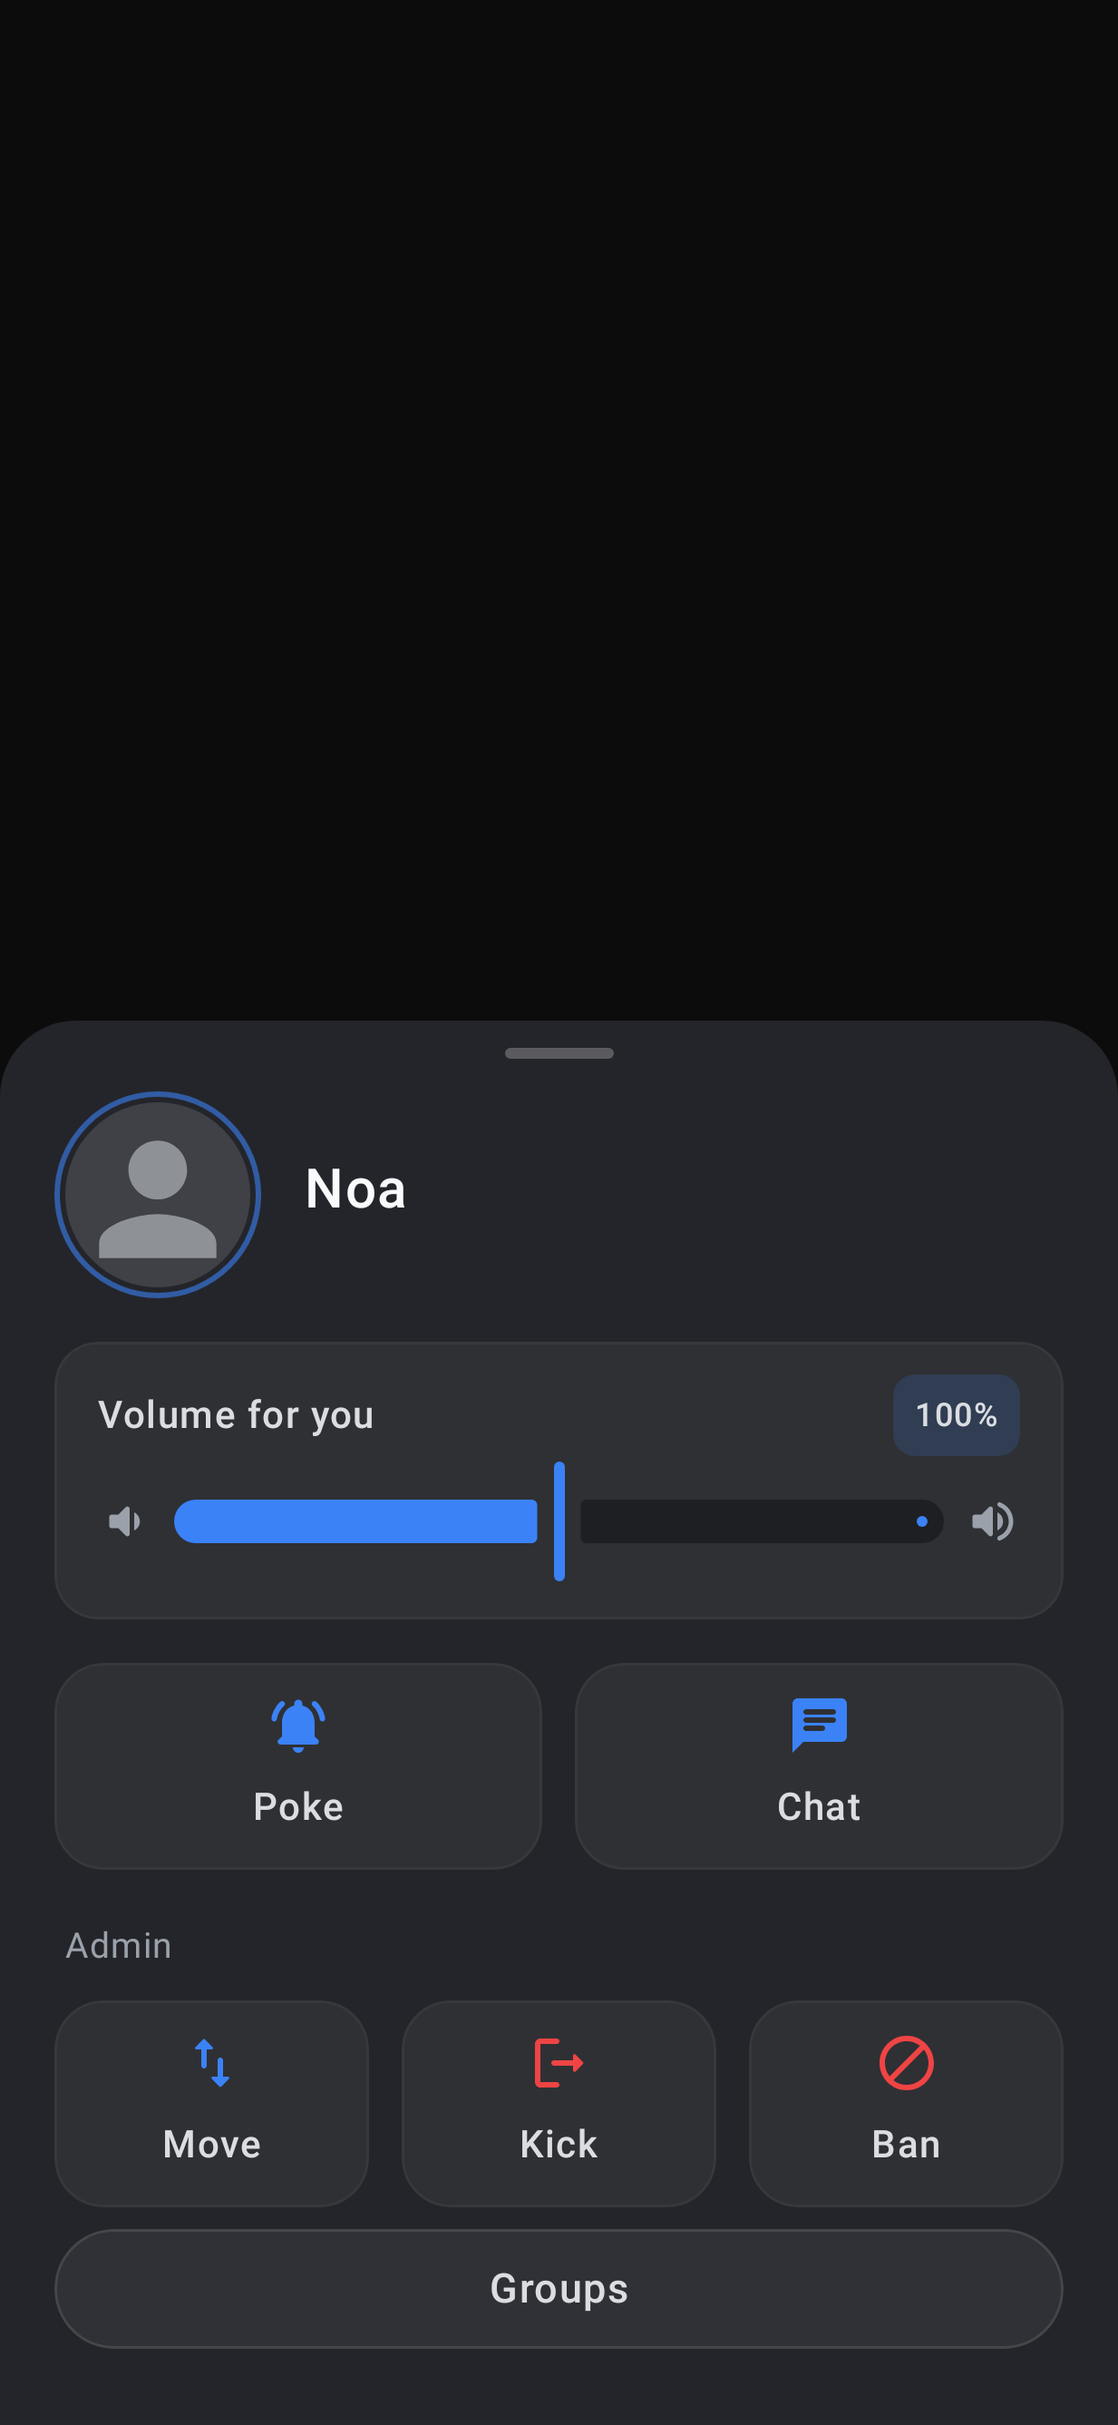
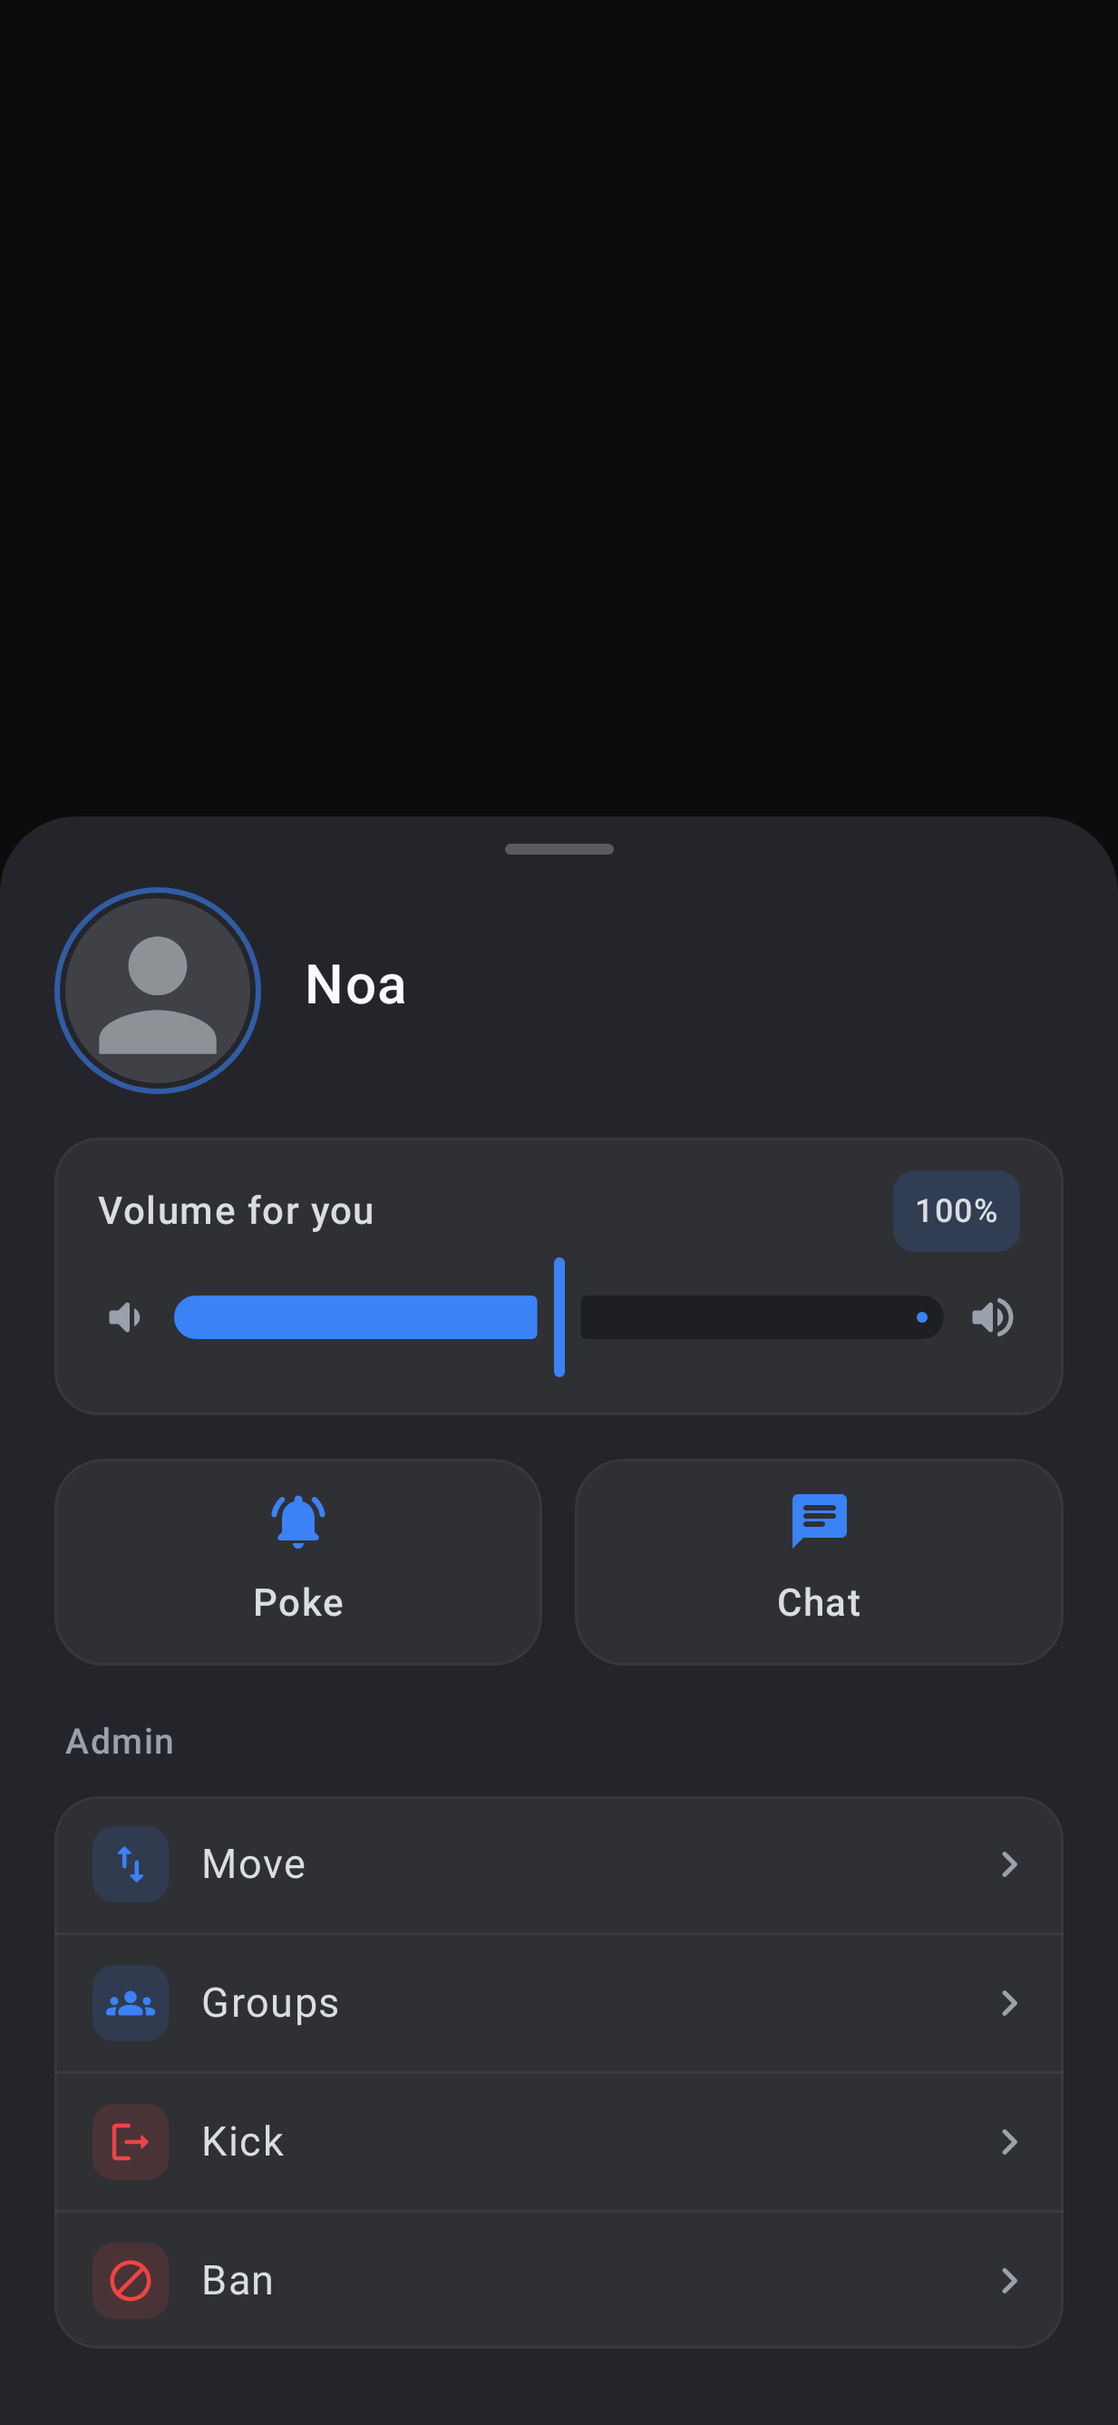
Menus: actions as lists, facts in one box
As in the channel menu and the Groups window, a menu's actions are a list
of rows (icon, name, an arrow when it opens something):
- the person menu's admin actions: Move, Groups, Kick and Ban (in red)
- one's own Groups, under Admin
- the identity window: Make default, Export, and Security level with its
  level, which opens Raise level
- the server info: its website and the privilege key

The server info's numbers (users, channels, uptime, created) sit side by
side in one box; "created" is the month ("Oct 2025"), which fits its cell.
Pictures of one's own menu and the server info (with and without a
website) are new.

diff --git a/app/src/main/kotlin/io/github/korppujauho/pocketts/ui/Dialogs.kt b/app/src/main/kotlin/io/github/korppujauho/pocketts/ui/Dialogs.kt
@@ -1,5 +1,8 @@
 package io.github.korppujauho.pocketts.ui
 
+import androidx.compose.material.icons.rounded.Groups
+import androidx.compose.material.icons.rounded.Public
+import androidx.compose.material.icons.automirrored.rounded.OpenInNew
 import androidx.compose.material.icons.filled.Hearing
 import androidx.compose.material.icons.rounded.Close
 import androidx.compose.material.icons.rounded.NotificationsActive
@@ -11,6 +14,8 @@ import androidx.compose.material.icons.automirrored.rounded.VolumeDown
 import androidx.compose.material.icons.automirrored.rounded.VolumeUp
 import androidx.compose.foundation.background
 import androidx.compose.foundation.border
+import androidx.compose.foundation.layout.fillMaxHeight
+import androidx.compose.foundation.layout.width
 import androidx.compose.material.icons.rounded.Person
 import androidx.compose.material.icons.rounded.Lock
 import androidx.compose.material.icons.rounded.Folder
@@ -135,7 +140,10 @@ fun PersonSheet(
                     }
                 }
                 // One's own groups, with the same powers as anyone's
-                if (admin && onGroups != null) PillButton(stringResource(R.string.admin_groups), modifier = Modifier.fillMaxWidth(), onClick = onGroups)
+                if (admin && onGroups != null) {
+                    Text(stringResource(R.string.admin_row), color = Ts.muted, fontSize = 13.sp, fontWeight = FontWeight.SemiBold, modifier = Modifier.padding(start = 4.dp))
+                    ActionCard { ActionRow(androidx.compose.material.icons.Icons.Rounded.Groups, stringResource(R.string.admin_groups), true, more = true, onClick = onGroups) }
+                }
                 return@Column
             }
             var v by remember { mutableFloatStateOf(volume) }
@@ -241,7 +249,6 @@ fun ServerInfoDialog(state: Session.UiState, onDismiss: () -> Unit, onPrivilegeK
         onDismiss = onDismiss, title = state.serverName.ifEmpty { stringResource(R.string.info_title) }, icon = androidx.compose.material.icons.Icons.Rounded.Dns,
         subtitle = state.address,
         buttons = {
-            PillButton(stringResource(R.string.key_button), onClick = onPrivilegeKey)
             PillButton(stringResource(R.string.close), PillKind.PRIMARY, onClick = onDismiss)
         },
     ) {
@@ -274,26 +281,42 @@ fun ServerInfoDialog(state: Session.UiState, onDismiss: () -> Unit, onPrivilegeK
                         add(res.getString(R.string.info_uptime) to span(res, it * 1000 + since))
                     }
                     v["virtualserver_created"]?.toLongOrNull()?.takeIf { it > 0 }?.let {
-                        add(res.getString(R.string.info_created) to res.getString(R.string.info_ago, span(res, System.currentTimeMillis() - it * 1000)))
+                        // The month it was made ("Oct 2025"), in the phone's language: short enough for its cell
+                        val locale = res.configuration.locales[0]
+                        val pattern = android.text.format.DateFormat.getBestDateTimePattern(locale, "MMMyyyy")
+                        add(res.getString(R.string.info_created) to java.text.SimpleDateFormat(pattern, locale).format(java.util.Date(it * 1000)))
                     }
                 }
-                for (row in stats.chunked(2)) {
-                    Row(horizontalArrangement = Arrangement.spacedBy(10.dp)) {
-                        for ((k, value) in row) {
-                            InfoBox(Modifier.weight(1f)) {
-                                Text(k, color = Ts.muted, fontSize = 12.sp)
-                                Text(value, color = Ts.text, fontSize = 15.sp)
-                            }
+                // The numbers side by side in one box, each over what it is
+                Row(
+                    Modifier.fillMaxWidth().height(androidx.compose.foundation.layout.IntrinsicSize.Min).clip(RoundedCornerShape(14.dp)).background(Pop.field)
+                        .border(1.dp, Color(0x0AFFFFFF), RoundedCornerShape(14.dp)),
+                ) {
+                    stats.forEachIndexed { i, (k, value) ->
+                        if (i > 0) Box(Modifier.width(1.dp).fillMaxHeight().background(Color(0x0DFFFFFF)))
+                        Column(
+                            Modifier.weight(1f).semantics(mergeDescendants = true) {}.padding(horizontal = 4.dp, vertical = 10.dp),
+                            horizontalAlignment = Alignment.CenterHorizontally, verticalArrangement = Arrangement.Center,
+                        ) {
+                            Text(value, color = Ts.text, fontSize = 15.sp, fontWeight = FontWeight.SemiBold, textAlign = androidx.compose.ui.text.style.TextAlign.Center, lineHeight = 18.sp)
+                            Text(k, color = Ts.muted, fontSize = 11.5.sp, textAlign = androidx.compose.ui.text.style.TextAlign.Center, maxLines = 1)
                         }
-                        if (row.size == 1) Spacer(Modifier.weight(1f))
                     }
                 }
+                // What can be done: the server's website, and a privilege key from its admin
                 val site = v["virtualserver_hostbutton_url"].orEmpty()
-                if (site.startsWith("http://") || site.startsWith("https://")) {
-                    InfoBox(Modifier.clickable { uri.openUri(site) }) {
-                        Text(v["virtualserver_hostbutton_tooltip"].orEmpty().ifEmpty { site }, color = Ts.text, fontWeight = FontWeight.SemiBold, fontSize = 14.sp)
-                        Text(site, color = Ts.muted, fontSize = 12.sp)
-                    }
+                val web = site.startsWith("http://") || site.startsWith("https://")
+                ActionCard {
+                    if (web) ActionRow(
+                        androidx.compose.material.icons.Icons.Rounded.Public, v["virtualserver_hostbutton_tooltip"].orEmpty().ifEmpty { site }, true,
+                        detail = site.takeIf { v["virtualserver_hostbutton_tooltip"].orEmpty().isNotEmpty() },
+                        trailing = {
+                            androidx.compose.material3.Icon(
+                                androidx.compose.material.icons.Icons.AutoMirrored.Rounded.OpenInNew, contentDescription = null, tint = Ts.muted, modifier = Modifier.size(18.dp),
+                            )
+                        },
+                    ) { uri.openUri(site) }
+                    ActionRow(androidx.compose.material.icons.Icons.Rounded.Key, stringResource(R.string.key_button), !web, more = true, onClick = onPrivilegeKey)
                 }
                 val version = listOf(
                     v["virtualserver_version"].orEmpty().replace(Regex("""\s*\[Build:[^\]]*]""", RegexOption.IGNORE_CASE), ""),
@@ -403,7 +426,7 @@ fun ChannelInfoDialog(
 
 /** A small fact about a channel: [text], an [icon], or both ([label]: what a screen reader says for an icon alone). */
 @Composable
-private fun InfoChip(text: String?, icon: androidx.compose.ui.graphics.vector.ImageVector? = null, label: String? = null) {
+internal fun InfoChip(text: String?, icon: androidx.compose.ui.graphics.vector.ImageVector? = null, label: String? = null) {
     Row(
         Modifier.clip(RoundedCornerShape(50)).background(Pop.field).border(1.dp, Color(0x0AFFFFFF), RoundedCornerShape(50))
             .then(if (label != null) Modifier.semantics(mergeDescendants = true) { contentDescription = listOfNotNull(label, text).joinToString(": ") } else Modifier)
@@ -417,16 +440,19 @@ private fun InfoChip(text: String?, icon: androidx.compose.ui.graphics.vector.Im
 
 /** A box of action rows, as the Groups window's boxes. */
 @Composable
-private fun ActionCard(content: @Composable ColumnScope.() -> Unit) = Column(
+internal fun ActionCard(content: @Composable ColumnScope.() -> Unit) = Column(
     Modifier.fillMaxWidth().clip(RoundedCornerShape(16.dp)).background(Pop.field).border(1.dp, Color(0x0AFFFFFF), RoundedCornerShape(16.dp)),
     content = content,
 )
 
-/** One action: its icon, its name, and an arrow when it opens something of its own ([more]). */
+/**
+ * One action: its icon, its name ([detail] under it), [trailing] at its end, and an arrow when it opens something of
+ * its own ([more]).
+ */
 @Composable
-private fun ActionRow(
+internal fun ActionRow(
     icon: androidx.compose.ui.graphics.vector.ImageVector, text: String, first: Boolean, more: Boolean = false, tint: Color = Ts.accent,
-    onClick: () -> Unit,
+    detail: String? = null, trailing: (@Composable () -> Unit)? = null, onClick: () -> Unit,
 ) {
     if (!first) Box(Modifier.fillMaxWidth().height(1.dp).background(Color(0x0DFFFFFF)))
     Row(
@@ -437,7 +463,11 @@ private fun ActionRow(
         Box(Modifier.size(28.dp).clip(RoundedCornerShape(8.dp)).background(tint.copy(alpha = 0.14f)), contentAlignment = Alignment.Center) {
             androidx.compose.material3.Icon(icon, contentDescription = null, tint = tint, modifier = Modifier.size(18.dp))
         }
-        Text(text, color = Ts.text, fontSize = 15.sp, modifier = Modifier.weight(1f))
+        Column(Modifier.weight(1f).padding(vertical = 6.dp)) {
+            Text(text, color = Ts.text, fontSize = 15.sp)
+            if (detail != null) Text(detail, color = Ts.muted, fontSize = 12.5.sp, maxLines = 1, overflow = androidx.compose.ui.text.style.TextOverflow.Ellipsis)
+        }
+        trailing?.invoke()
         if (more) androidx.compose.material3.Icon(
             androidx.compose.material.icons.Icons.AutoMirrored.Rounded.KeyboardArrowRight, contentDescription = null, tint = Ts.muted, modifier = Modifier.size(20.dp),
         )

diff --git a/app/src/main/kotlin/io/github/korppujauho/pocketts/ui/IdentityViews.kt b/app/src/main/kotlin/io/github/korppujauho/pocketts/ui/IdentityViews.kt
@@ -1,5 +1,7 @@
 package io.github.korppujauho.pocketts.ui
 
+import androidx.compose.material.icons.rounded.Shield
+import androidx.compose.material.icons.rounded.FileUpload
 import androidx.compose.foundation.background
 import androidx.compose.ui.text.style.TextOverflow
 import androidx.compose.ui.semantics.semantics
@@ -171,24 +173,28 @@ internal fun IdentityDialog(e: IdentityInfo, all: List<IdentityInfo>, actions: S
             TsField(name, { name = it.take(40) }, stringResource(R.string.identity_name))
             TsField(nick, { nick = it.take(30) }, stringResource(R.string.nickname))
             e.problem?.let { Desc(it) }
-            Row(horizontalArrangement = Arrangement.spacedBy(8.dp)) {
-                if (!isDefault) SecondaryButton(stringResource(R.string.identity_make_default)) {
-                    actions.makeDefaultIdentity(e.key)
-                    isDefault = true
+            // What can be done with it, one row each, as the menus' rows
+            val rows = buildList<@Composable (Boolean) -> Unit> {
+                if (!isDefault) add { first ->
+                    ActionRow(Icons.Rounded.Star, stringResource(R.string.identity_make_default), first, tint = Ts.amber) {
+                        actions.makeDefaultIdentity(e.key)
+                        isDefault = true
+                    }
                 }
-                if (e.problem == null) SecondaryButton(stringResource(R.string.identity_export)) { warning = true }
+                if (e.problem == null) add { first -> ActionRow(Icons.Rounded.FileUpload, stringResource(R.string.identity_export), first, more = true) { warning = true } }
+                // The security level: some servers need a higher one than a new identity has
+                level?.let { current ->
+                    add { first ->
+                        ActionRow(
+                            Icons.Rounded.Shield, stringResource(R.string.level_title), first, more = true,
+                            detail = stringResource(R.string.level_raise_button), trailing = { ValueBadge("$current") },
+                        ) { raising = true }
+                    }
+                }
             }
+            if (rows.isNotEmpty()) ActionCard { rows.forEachIndexed { i, row -> row(i == 0) } }
             status?.let { Desc(it) }
-            // The security level: some servers need a higher one than a new identity has
-            level?.let { current ->
-                Row(verticalAlignment = Alignment.CenterVertically, horizontalArrangement = Arrangement.spacedBy(8.dp)) {
-                    Text(stringResource(R.string.level_title), color = Ts.text, fontWeight = FontWeight.SemiBold, fontSize = 14.sp)
-                    ValueBadge("$current")
-                    Spacer(Modifier.weight(1f))
-                    SecondaryButton(stringResource(R.string.level_raise_button)) { raising = true }
-                }
-                Desc(stringResource(R.string.level_desc))
-            }
+            if (level != null) Desc(stringResource(R.string.level_desc))
         }
     }
     if (raising) {

diff --git a/app/src/test/kotlin/io/github/korppujauho/pocketts/ScreenshotTest.kt b/app/src/test/kotlin/io/github/korppujauho/pocketts/ScreenshotTest.kt
@@ -283,6 +283,47 @@ class ScreenshotTest {
         )
     }
 
+    /** One's own menu with admin functions on: Away, and one's own groups. */
+    @Test
+    fun selfPopup() = popup("popup-person-self") {
+        val s = Example.state()
+        io.github.korppujauho.pocketts.ui.PersonSheet(
+            s.client(1)!!, s.serverKey, isSelf = true, volume = 1f, onVolume = {}, onPoke = {}, onChat = {}, onDismiss = {},
+            admin = true, onGroups = {},
+        )
+    }
+
+    /** The server's info: its welcome, numbers, website, version, and the privilege key. */
+    @Test
+    fun serverInfoPopup() = popup("popup-server-info") {
+        val now = System.currentTimeMillis()
+        val s = Example.state().copy(
+            serverName = "TeamSpeak 6 Server", address = "ts.example.com", clientCount = 7, channelCount = 12,
+            server = hashMapOf(
+                "virtualserver_welcomemessage" to "Welcome! Be nice, and read the [b]rules[/b] channel.",
+                "virtualserver_maxclients" to "32", "virtualserver_uptime" to "${3 * 86400 + 4 * 3600}", "received_at" to "$now",
+                "virtualserver_created" to "${now / 1000 - 400 * 86400}",
+                "virtualserver_hostbutton_url" to "https://example.com", "virtualserver_hostbutton_tooltip" to "Our website",
+                "virtualserver_version" to "6.0.0-beta5 [Build: 1730000000]", "virtualserver_platform" to "Linux",
+            ),
+        )
+        io.github.korppujauho.pocketts.ui.ServerInfoDialog(s, onDismiss = {})
+    }
+
+    /** Without a website, welcome or banner: the numbers and the privilege key. */
+    @Test
+    fun serverInfoPlainPopup() = popup("popup-server-info-plain") {
+        val now = System.currentTimeMillis()
+        val s = Example.state().copy(
+            serverName = "TeamSpeak 6 Server", address = "ts.example.com", clientCount = 7, channelCount = 12,
+            server = hashMapOf(
+                "virtualserver_maxclients" to "32", "virtualserver_uptime" to "${3 * 86400}", "received_at" to "$now",
+                "virtualserver_created" to "${now / 1000 - 400 * 86400}", "virtualserver_version" to "6.0.0-beta5", "virtualserver_platform" to "Linux",
+            ),
+        )
+        io.github.korppujauho.pocketts.ui.ServerInfoDialog(s, onDismiss = {})
+    }
+
     @Test
     fun groupsPopup() = popup("popup-groups") {
         io.github.korppujauho.pocketts.ui.ServerGroupsDialog(

diff --git a/app/src/main/kotlin/io/github/korppujauho/pocketts/ui/AdminDialogs.kt b/app/src/main/kotlin/io/github/korppujauho/pocketts/ui/AdminDialogs.kt
@@ -160,15 +160,14 @@ private fun Choice(text: String, selected: Boolean, onClick: () -> Unit) {
 /** The person menu's admin row (Settings › UI › Show admin functions), and their server groups under it. */
 @Composable
 fun AdminTiles(onMove: () -> Unit, onKick: () -> Unit, onBan: () -> Unit, onGroups: (() -> Unit)? = null) {
+    // As the channel menu's: one row each, the ones that remove someone in red, last
     Column(verticalArrangement = Arrangement.spacedBy(8.dp)) {
-        Text(stringResource(R.string.admin_row), color = Ts.muted, fontSize = 13.sp, modifier = Modifier.padding(start = 4.dp))
-        Row(Modifier.fillMaxWidth(), horizontalArrangement = Arrangement.spacedBy(12.dp)) {
-            ActionTile(Icons.Rounded.SwapVert, stringResource(R.string.admin_move), Modifier.weight(1f), onClick = onMove)
-            ActionTile(Icons.AutoMirrored.Rounded.Logout, stringResource(R.string.admin_kick), Modifier.weight(1f), tint = Ts.red, onClick = onKick)
-            ActionTile(Icons.Rounded.Block, stringResource(R.string.admin_ban), Modifier.weight(1f), tint = Ts.red, onClick = onBan)
-        }
-        if (onGroups != null) {
-            PillButton(stringResource(R.string.admin_groups), modifier = Modifier.fillMaxWidth(), onClick = onGroups)
+        Text(stringResource(R.string.admin_row), color = Ts.muted, fontSize = 13.sp, fontWeight = FontWeight.SemiBold, modifier = Modifier.padding(start = 4.dp))
+        ActionCard {
+            ActionRow(Icons.Rounded.SwapVert, stringResource(R.string.admin_move), true, more = true, onClick = onMove)
+            if (onGroups != null) ActionRow(Icons.Rounded.Groups, stringResource(R.string.admin_groups), false, more = true, onClick = onGroups)
+            ActionRow(Icons.AutoMirrored.Rounded.Logout, stringResource(R.string.admin_kick), false, more = true, tint = Ts.red, onClick = onKick)
+            ActionRow(Icons.Rounded.Block, stringResource(R.string.admin_ban), false, more = true, tint = Ts.red, onClick = onBan)
         }
     }
 }
